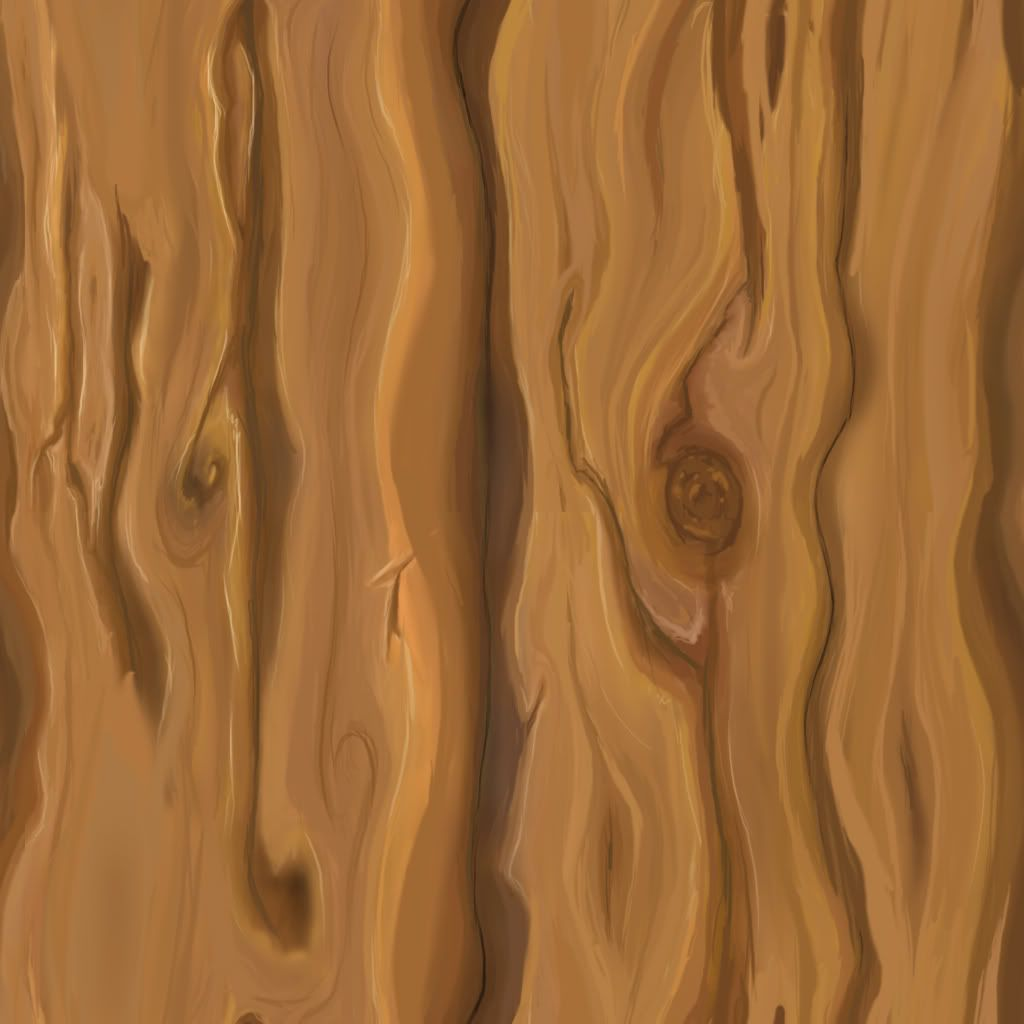
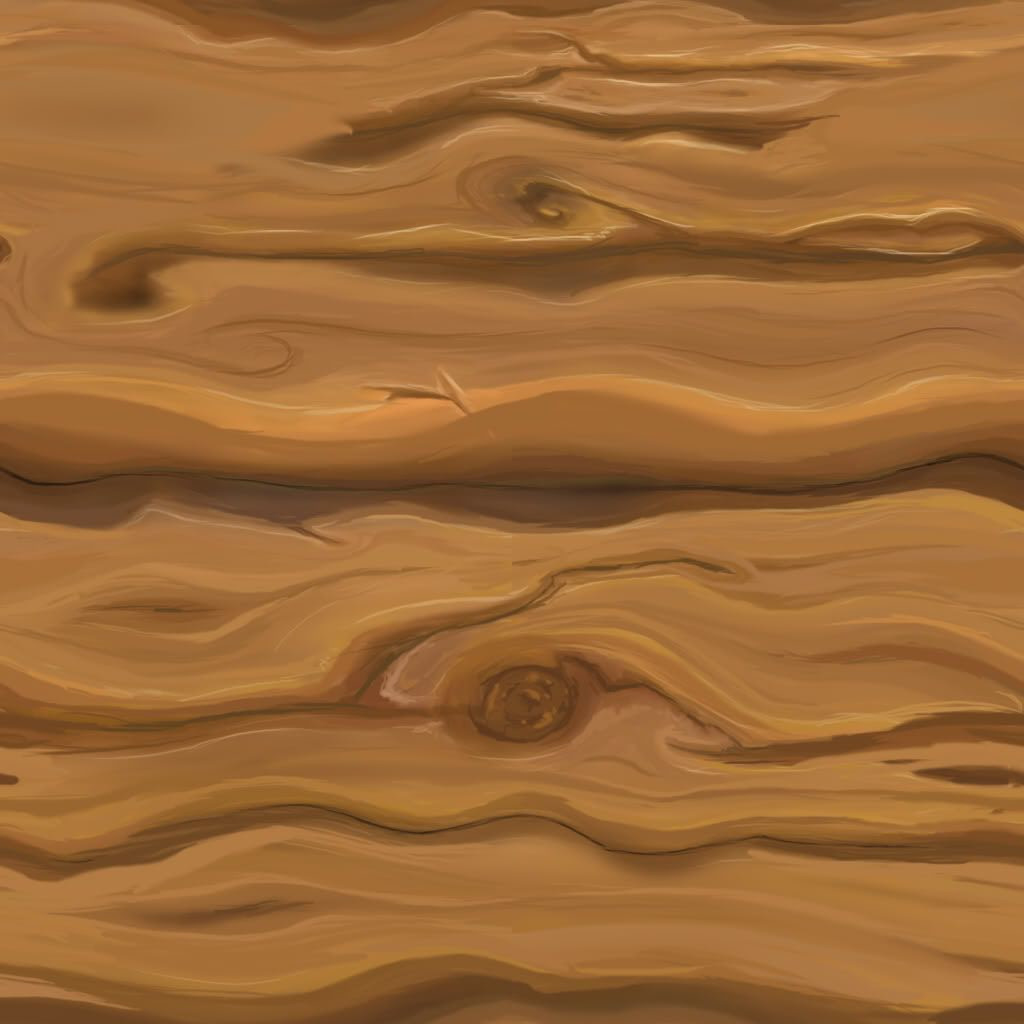
Add bg and hole/board switch

diff --git a/src/app/pages/game/board/board.component.ts b/src/app/pages/game/board/board.component.ts
@@ -3,13 +3,28 @@ import { Component, OnInit } from '@angular/core';
 @Component({
   selector: 'app-board',
   templateUrl: './board.component.html',
-  styleUrls: ['./board.component.scss']
+  styleUrls: ['./board.component.scss'],
 })
 export class BoardComponent implements OnInit {
+  private boardNumber = 0;
+  private maxBoardNumber = 7;
+  private holeNumber = 0;
+  private maxHoleNumber = 9;
 
-  constructor() { }
+  constructor() {}
 
-  ngOnInit(): void {
+  ngOnInit(): void {}
+
+  public onNextBoardClick(): void {
+    this.boardNumber = ++this.boardNumber % (this.maxBoardNumber + 1);
   }
 
+  public onNextHoleClick(): void {
+    this.holeNumber = ++this.holeNumber % (this.maxHoleNumber + 1);
+  }
+
+  /* ------------------------------------------- Getters / setters ------------------------------------------- */
+  get boardImageUrl(): string {
+    return `url(/assets/images/cartoon-wood-00${this.boardNumber}.jpg)`;
+  }
 }

diff --git a/src/app/shared/styles/base/_helpers.scss b/src/app/shared/styles/base/_helpers.scss
@@ -4,6 +4,7 @@
 
 @use "/src/app/shared/styles/utilities/variables";
 @use "/src/app/shared/styles/utilities/mixins";
+@use "/src/app/shared/styles/components/buttons";
 
 /* Sized
 ============================================= */
@@ -57,7 +58,7 @@ $bg-colours: (
 
 /* Rounded
 ============================================= */
-$round-sizes: 15, 25, 50;
+$round-sizes: 15, 25, 50, 75, 100;
 @each $size in $round-sizes {
   .rounded-#{$size} {
     border-radius: #{$size}px;
@@ -86,4 +87,17 @@ $round-sizes: 15, 25, 50;
   position: sticky;
   top: 0;
   z-index: variables.$zindex-sticky;
+}
+
+/* Button
+============================================= */
+.btn-orange {
+  @include buttons.btn(
+    variables.$bootstrap-orange,
+    variables.$bootstrap-light,
+    darken(variables.$bootstrap-orange, 25),
+    darken(variables.$bootstrap-light, 25),
+    variables.$bootstrap-gray-500,
+    variables.$bootstrap-gray-500
+  );
 }

diff --git a/src/index.html b/src/index.html
@@ -1,13 +1,18 @@
-<!doctype html>
+<!DOCTYPE html>
 <html lang="en">
-<head>
-  <meta charset="utf-8">
-  <title>MancalaGame</title>
-  <base href="/">
-  <meta name="viewport" content="width=device-width, initial-scale=1">
-  <link rel="icon" type="image/x-icon" href="favicon.ico">
-</head>
-<body>
-  <app-root></app-root>
-</body>
+  <head>
+    <meta charset="utf-8" />
+    <title>MancalaGame</title>
+    <base href="/" />
+    <meta name="viewport" content="width=device-width, initial-scale=1" />
+    <link rel="icon" type="image/x-icon" href="favicon.ico" />
+    <link rel="preconnect" href="https://fonts.gstatic.com" />
+    <link
+      href="https://fonts.googleapis.com/css2?family=Montserrat:wght@100;200;300;400;500;600;700;800;900&display=swap"
+      rel="stylesheet"
+    />
+  </head>
+  <body>
+    <app-root></app-root>
+  </body>
 </html>

diff --git a/src/app/shared/styles/components/_buttons.scss b/src/app/shared/styles/components/_buttons.scss
@@ -1,0 +1,34 @@
+@mixin btn(
+  $bg-color,
+  $color,
+  $hover-bg-color,
+  $hover-color,
+  $disabled-bg-color,
+  $disabled-color,
+  $border-color: transparent,
+  $hover-border-color: transparent,
+  $disabled-outline-color: transparent,
+  $border-size: 2px
+) {
+  border-radius: 25px;
+  cursor: pointer;
+  background-color: $bg-color;
+  border: $border-size solid $border-color;
+  outline: none;
+  color: $color;
+  transition-duration: 0.7s;
+  font-weight: 600;
+
+  &:hover {
+    background-color: $hover-bg-color;
+    border: $border-size solid $hover-border-color;
+    color: $hover-color;
+  }
+
+  &:disabled {
+    background-color: $disabled-bg-color;
+    border: $border-size solid $disabled-outline-color;
+    color: $disabled-color;
+    cursor: unset;
+  }
+}

diff --git a/src/app/pages/game/board/board.component.html b/src/app/pages/game/board/board.component.html
@@ -1,1 +1,13 @@
-<div id="board" class="rounded-25 w-100 h-100"></div>
+<div
+  id="board"
+  class="rounded-100 w-100 h-100"
+  [ngStyle]="{ 'background-image': boardImageUrl }"
+></div>
+<div class="d-flex flex-row">
+  <button class="btn-orange p-4 my-3" (click)="onNextHoleClick()">
+    Next hole
+  </button>
+  <button class="btn-orange p-4 my-3" (click)="onNextBoardClick()">
+    Next board
+  </button>
+</div>

diff --git a/src/app/pages/game/board/board.component.scss b/src/app/pages/game/board/board.component.scss
@@ -1,7 +1,9 @@
 @use "/src/app/shared/styles/utilities/mixins";
+@use "/src/app/shared/styles/utilities/variables";
 @use "/src/app/shared/styles/utilities/functions";
 
 #board {
   @include mixins.bg-fill();
-  background-image: functions.image($name: "cartoon-wood-001.jpg");
+  // box-shadow: 0px 3px 8px 4px variables.$bootstrap-dark;
+  box-shadow: 0px -1px 12px 9px rgba(0, 0, 0, 0.55) inset;
 }

diff --git a/src/app/pages/game/game.component.html b/src/app/pages/game/game.component.html
@@ -1,5 +1,8 @@
-<div class="d-flex flex-center-column bg-dark text-light max-viewport">
-  <div class="w-75 h-75">
+<div
+  id="main-container"
+  class="d-flex flex-center-column bg-light text-light max-viewport"
+>
+  <div class="w-75 h-60">
     <app-board></app-board>
   </div>
 </div>

diff --git a/src/app/shared/styles/base/_sizing.scss b/src/app/shared/styles/base/_sizing.scss
@@ -26,6 +26,16 @@ $i: 5;
   $i: $i + 5;
 }
 
+// min-width
+$i: 5;
+@while $i <= 100 {
+  $width: percentage($i/100);
+  .min-w-#{$i} {
+    min-width: $width;
+  }
+  $i: $i + 5;
+}
+
 /* Fit width
 ============================================= */
 

diff --git a/src/app/pages/game/game.component.scss b/src/app/pages/game/game.component.scss
@@ -1,0 +1,7 @@
+@use "/src/app/shared/styles/utilities/mixins";
+@use "/src/app/shared/styles/utilities/functions";
+
+#main-container {
+  @include mixins.bg-fill();
+  background-image: functions.image("bg-2.png");
+}

diff --git a/src/app/shared/styles/base/_base.scss b/src/app/shared/styles/base/_base.scss
@@ -13,6 +13,7 @@ html {
   overflow-x: hidden;
   overflow-y: auto;
   font-size: 16px;
+  font-family: "Montserrat", sans-serif;
 }
 
 /**
